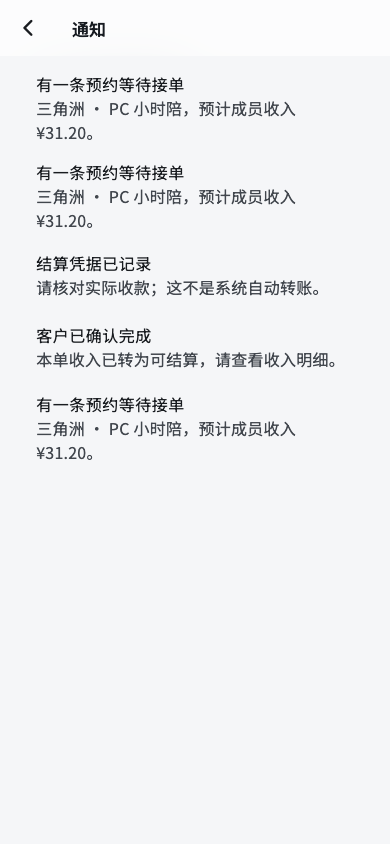
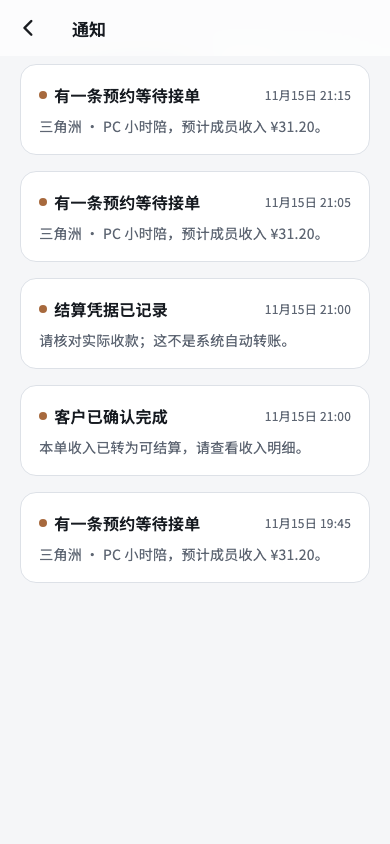
feat(app): 通知列表补齐未读圆点、通知时间与正文层级，对齐小程序；同步状态文档测试基线

diff --git a/apps/mobile/lib/main.dart b/apps/mobile/lib/main.dart
@@ -906,30 +906,82 @@ class _NotificationsPageState extends State<NotificationsPage> {
                   (!widget.repo.isProduction || widget.repo.token != null))
                 const EmptyState('暂时没有新通知', '预约安排和服务进度更新，会出现在这里。'),
               ...widget.repo.notifications.map(
-                (n) => ListTile(
-                  title: Text('${n['title']}'),
-                  subtitle: Text('${n['body'] ?? n['message'] ?? ''}'),
-                  onTap: () async {
-                    try {
-                      if (!widget.repo.isLocal) {
-                        await widget.repo.request(
-                          'PATCH',
-                          '/notifications/${n['id']}/read',
-                          {},
-                        );
-                      }
-                      if (context.mounted && n['orderId'] != null) {
-                        context.push(
-                          widget.repo.role == 'member'
-                              ? '/member/orders/${n['orderId']}'
-                              : '/orders/${n['orderId']}',
-                        );
-                      }
-                    } catch (e) {
-                      if (context.mounted) toast(context, e);
-                    }
-                  },
-                ),
+                (n) {
+                  final unread = n['readAt'] == null;
+                  return Padding(
+                    padding: const EdgeInsets.only(bottom: 16),
+                    child: InkWell(
+                      onTap: () async {
+                        try {
+                          if (!widget.repo.isLocal) {
+                            await widget.repo.request(
+                              'PATCH',
+                              '/notifications/${n['id']}/read',
+                              {},
+                            );
+                          }
+                          if (context.mounted && n['orderId'] != null) {
+                            context.push(
+                              widget.repo.role == 'member'
+                                  ? '/member/orders/${n['orderId']}'
+                                  : '/orders/${n['orderId']}',
+                            );
+                          }
+                        } catch (e) {
+                          if (context.mounted) toast(context, e);
+                        }
+                      },
+                      child: Surface(
+                        border: true,
+                        child: Column(
+                          crossAxisAlignment: CrossAxisAlignment.start,
+                          children: [
+                            Row(
+                              children: [
+                                if (unread)
+                                  Container(
+                                    width: 8,
+                                    height: 8,
+                                    margin: const EdgeInsets.only(right: 7),
+                                    decoration: const BoxDecoration(
+                                      color: unreadDot,
+                                      shape: BoxShape.circle,
+                                    ),
+                                  ),
+                                Expanded(
+                                  child: Text(
+                                    '${n['title']}',
+                                    style: TextStyle(
+                                      fontSize: 16,
+                                      fontWeight:
+                                          unread ? FontWeight.w600 : FontWeight.w500,
+                                    ),
+                                  ),
+                                ),
+                                Text(
+                                  when(n['createdAt']),
+                                  style: const TextStyle(
+                                    color: muted,
+                                    fontSize: 12,
+                                  ),
+                                ),
+                              ],
+                            ),
+                            const SizedBox(height: 8),
+                            Text(
+                              '${n['body'] ?? n['message'] ?? ''}',
+                              style: const TextStyle(
+                                color: muted,
+                                fontSize: 14,
+                                height: 1.5,
+                              ),
+                            ),
+                          ],
+                        ),
+                      ),
+                    ),
+                  );
+                },
               ),
             ],
           ),

diff --git a/apps/mobile/lib/ui.dart b/apps/mobile/lib/ui.dart
@@ -17,7 +17,9 @@ const canvas = Color(0xFFF5F6F8),
     // 克制暖强调色：用于价格、主操作与选中态，不随俱乐部品牌色变化。
     accent = Color(0xFFE8891C),
     accentSoft = Color(0xFFFBF1E2),
-    warmHead = Color(0xFFF7F1E7);
+    warmHead = Color(0xFFF7F1E7),
+    // 未读提示圆点，与小程序通知圆点同一暖棕。
+    unreadDot = Color(0xFFA7693D);
 Color brandColor(ClubRepository repo) {
   final hex = '${repo.club['primaryColor'] ?? '#272D35'}'.replaceFirst('#', '');
   return Color(int.tryParse('FF$hex', radix: 16) ?? 0xFF272D35);

diff --git a/docs/00-status.md b/docs/00-status.md
@@ -10,7 +10,7 @@
 | 运营后台 | 待办、派单、订单时间线、排班邀请、人工结算、售后、目录规格、横幅和公告编辑、支付同步与全额退款；12页真实运行截图；品牌由配置管理 | 真实目录和经营信息、运营培训、多管理员权限/审计 |
 | 派单与履约 | API与测试覆盖指派、接拒、档期冲突、交付与客户确认；后台浏览器验证派单、排班、邀请码和服务规格保存 | 原生真机验收、实际排班与客服制度 |
 | 争议与分成账本 | API与测试覆盖冻结、退款冲销、手工结算凭据；隔离后台已验证模拟凭据写入 | 实际付款凭据与每日核对；无自动代付/钱包 |
-| Flutter iOS / Android | 共用 Flutter 工程，52项功能测试及35张截图，Web、Android debug及iOS未签名Release构建通过 | 真机验收、签名、发布账号与审核 |
+| Flutter iOS / Android | 共用 Flutter 工程，87 项功能与截图测试通过及 35 张截图，Web、Android debug及iOS未签名Release构建通过 | 真机验收、签名、发布账号与审核 |
 | 微信小程序 | 独立原生代码，共用 API；原生模拟器验证下单与成员接单，24张截图 | 自有 AppID、合法服务器域名、真机测试与审核 |
 | 展示网站 | 角色切换、平台/流程/状态筛选、71张完整截图、品牌向导和14篇可搜索文档 | 持续同步每次发布的新页面和状态 |
 | 身份认证 | 显式登录 + 微信小程序 code2session / 原生 OAuth、短信验证码、会话及账号注销 | 自有微信或腾讯云短信账号、凭证、真实送达与设备登录验收 |
